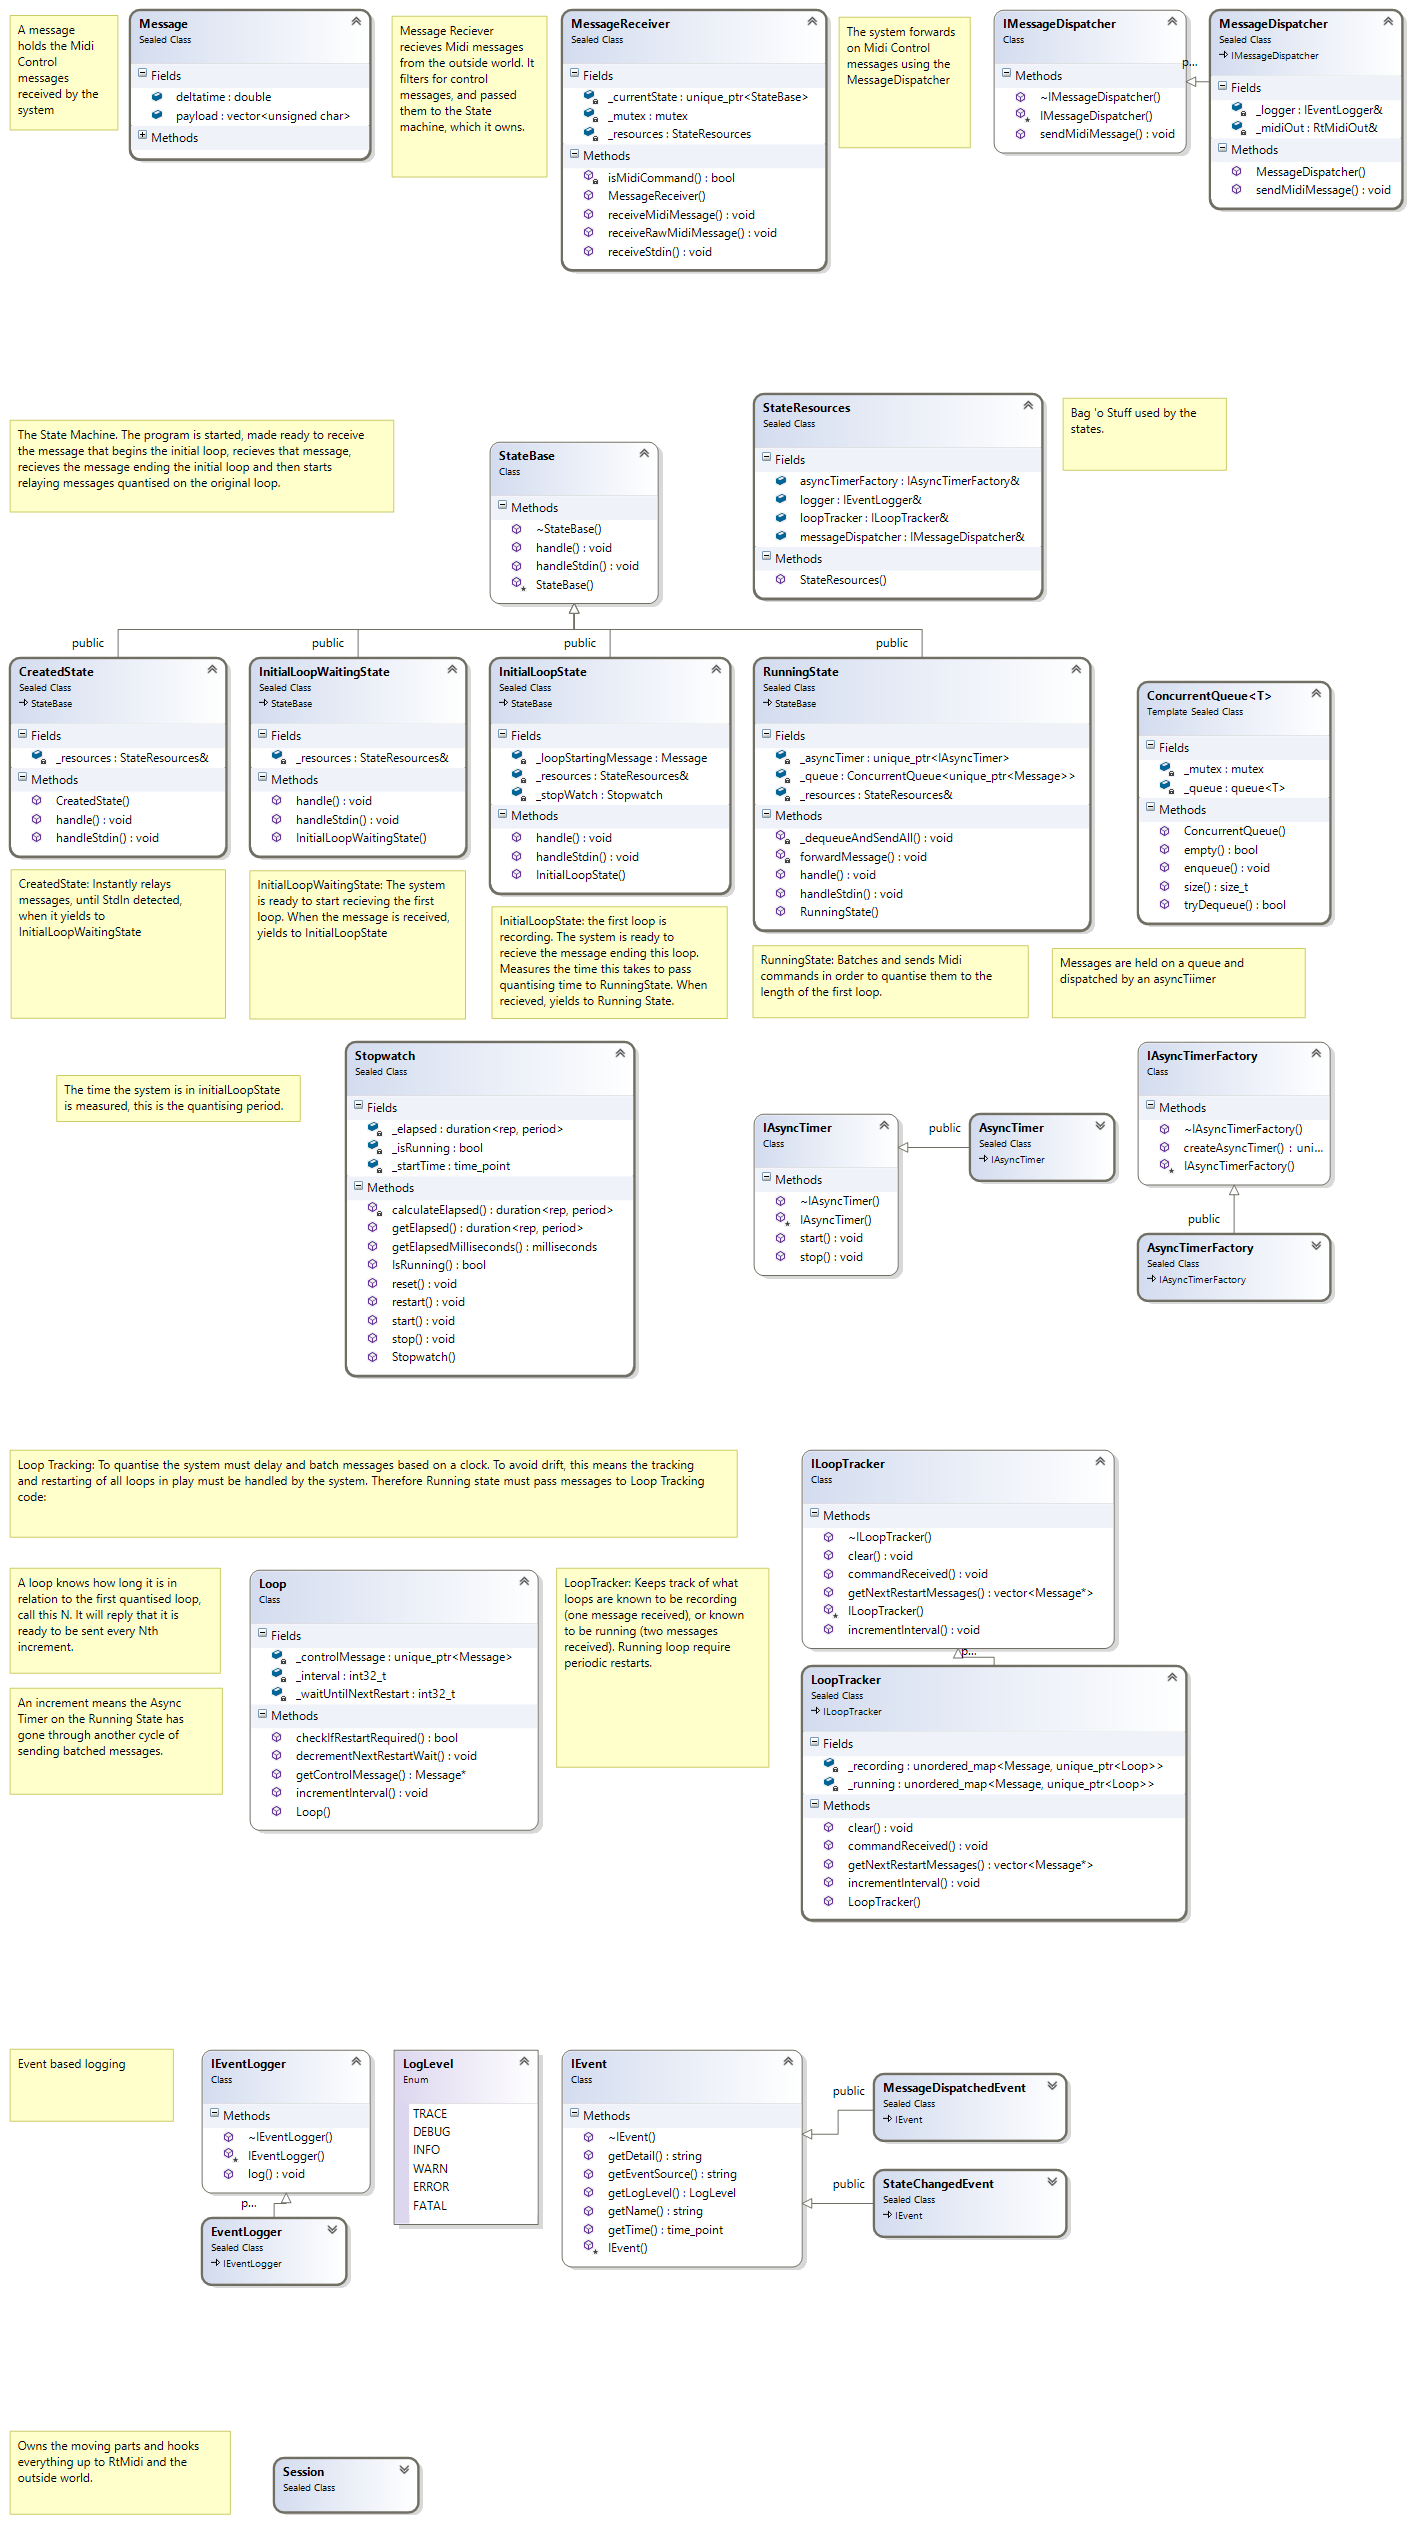
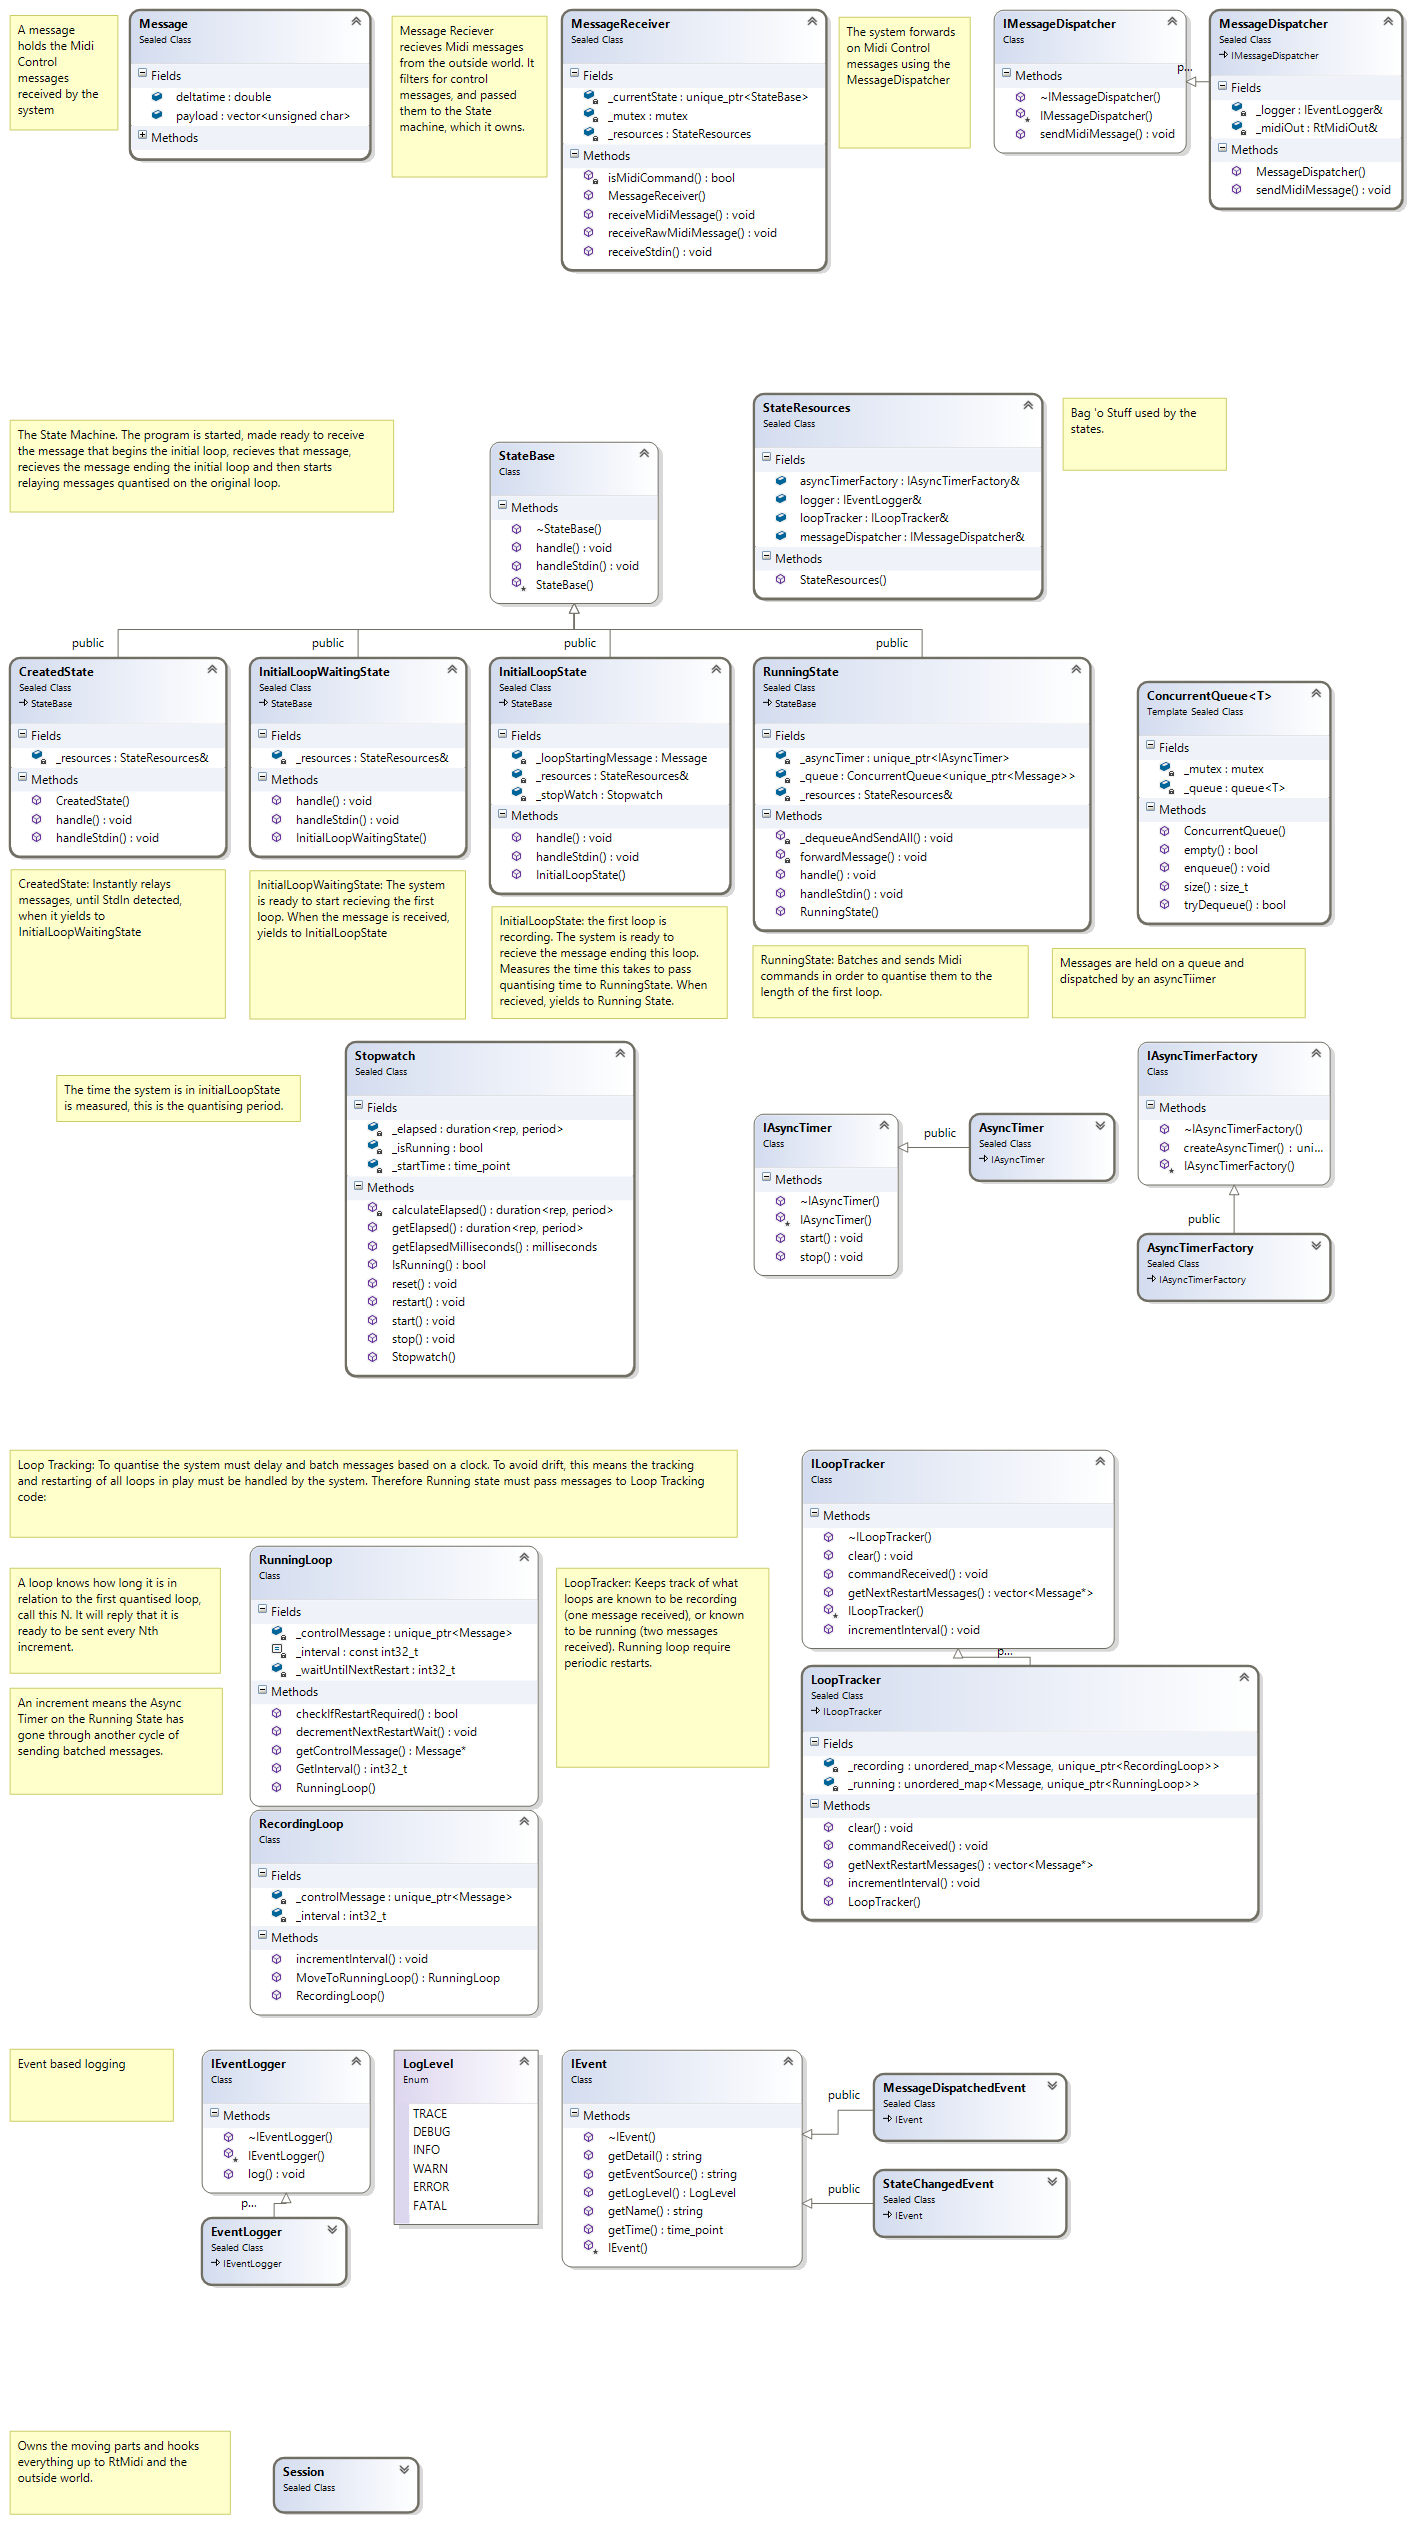
Split the provisioning (recording) of a loop and the usage (running, asking for restarts).

Changed region(s): [[0.1559, 0.5874, 0.4054, 0.8038], [0.7796, 0.6492, 0.9043, 0.7729]]

diff --git a/LiveFreetimeLooper.Tests/MessagingTests/RunningLoopTests.cpp b/LiveFreetimeLooper.Tests/MessagingTests/RunningLoopTests.cpp
@@ -1,0 +1,63 @@
+#include "..\Catch\catch.hpp"
+#include "..\..\LiveFreetimeLooper.FreetimeLooper\Messaging\Message.hpp"
+
+#include "..\..\LiveFreetimeLooper.FreetimeLooper\Messaging\RunningLoop.hpp"
+
+#include <memory>
+#include <cstdint>
+using namespace LiveFreetimeLooper;
+
+void A_RunningLoop_of_interval_N_is_restartable_every_Mth_decrement(std::int32_t loopInterval, std::int32_t decrementInterval)
+{
+    auto loop = RunningLoop(nullptr, loopInterval);
+    for (std::int32_t j = 0;j < 5;j++)
+    {
+        bool isRestartableBeforeNDecrements = false;
+        for (std::int32_t i = 0; i < decrementInterval - 1; i++)
+        {
+            loop.decrementNextRestartWait();
+            isRestartableBeforeNDecrements |= loop.checkIfRestartRequired();
+        }
+
+        loop.decrementNextRestartWait();
+        bool isRestartableOnNthDecrements = loop.checkIfRestartRequired();
+
+        REQUIRE_FALSE(isRestartableBeforeNDecrements);
+        REQUIRE(isRestartableOnNthDecrements);
+    }
+}
+
+TEST_CASE("A RunningLoop of interval 1 is restartable every 1st decrement")
+{
+    A_RunningLoop_of_interval_N_is_restartable_every_Mth_decrement(1, 1);
+}
+
+TEST_CASE("A RunningLoop of interval 2 is restartable every 2nd decrement")
+{
+    A_RunningLoop_of_interval_N_is_restartable_every_Mth_decrement(2, 2);
+}
+
+TEST_CASE("A RunningLoop of interval 5 is restartable every 5th decrement")
+{
+    A_RunningLoop_of_interval_N_is_restartable_every_Mth_decrement(5, 5);
+}
+
+TEST_CASE("A RunningLoop of interval 13 is restartable every 13th decrement")
+{
+    A_RunningLoop_of_interval_N_is_restartable_every_Mth_decrement(13, 13);
+}
+
+TEST_CASE("A RunningLoop of interval 0 is restartable every 1st decrement")
+{
+    // Is this the desired behaviour? //todo test broken this is checking the 0th decremeent
+    A_RunningLoop_of_interval_N_is_restartable_every_Mth_decrement(0, 1);
+}
+
+TEST_CASE("A RunningLoop of any interval is restartable before the first decrement")
+{
+    for (int i = 0; i < 10; i++)
+    {
+        auto loop = RunningLoop(nullptr, i);
+        REQUIRE(loop.checkIfRestartRequired());
+    }
+}

diff --git a/LiveFreetimeLooper.Tests/MessagingTests/RecordingLoopTests.cpp b/LiveFreetimeLooper.Tests/MessagingTests/RecordingLoopTests.cpp
@@ -1,0 +1,37 @@
+#include "..\Catch\catch.hpp"
+#include "..\..\LiveFreetimeLooper.FreetimeLooper\Messaging\Message.hpp"
+
+#include "..\..\LiveFreetimeLooper.FreetimeLooper\Messaging\RunningLoop.hpp"
+#include "..\..\LiveFreetimeLooper.FreetimeLooper\Messaging\RecordingLoop.hpp"
+
+#include <memory>
+#include <cstdint>
+using namespace LiveFreetimeLooper;
+
+TEST_CASE("Recording Loop yields a loop of correct interval and message")
+{
+    std::vector<unsigned char> payload = { 'q' };
+    Message message(payload);
+    RecordingLoop recordingLoop(std::make_unique<Message>(message));
+
+    for (std::int32_t i = 0; i < 27; i++)
+    {
+        recordingLoop.incrementInterval();
+    }
+
+    auto loop = recordingLoop.MoveToRunningLoop();
+
+    REQUIRE(loop.GetInterval() == 27);
+    REQUIRE(*loop.getControlMessage() == message);
+}
+
+TEST_CASE("Recording Loop yields a loop of correct interval and message when interval is zero")
+{
+    std::vector<unsigned char> payload = { 'g' };
+    Message message(payload);
+    RecordingLoop recordingLoop(std::make_unique<Message>(message));
+    auto loop = recordingLoop.MoveToRunningLoop();
+
+    REQUIRE(loop.GetInterval() == 0);
+    REQUIRE(*loop.getControlMessage() == message);
+}

diff --git a/LiveFreetimeLooper.FreetimeLooper/Messaging/RunningLoop.cpp b/LiveFreetimeLooper.FreetimeLooper/Messaging/RunningLoop.cpp
@@ -1,26 +1,21 @@
-#include "Loop.hpp"
+#include "RunningLoop.hpp"
 
 namespace LiveFreetimeLooper
 {
-    Loop::Loop(std::unique_ptr<Message> controlMessage) :
-        _interval(0),
+    RunningLoop::RunningLoop(std::unique_ptr<Message> controlMessage, std::int32_t interval) :
+        _interval(interval),
         _waitUntilNextRestart(0),
         _controlMessage(std::move(controlMessage))
     {
 
     }
 
-    void Loop::incrementInterval()
-    {
-        ++_interval;
-    }
-
-    bool Loop::checkIfRestartRequired()
+    bool RunningLoop::checkIfRestartRequired()
     {
         return _waitUntilNextRestart < 1;
     }
 
-    void Loop::decrementNextRestartWait()
+    void RunningLoop::decrementNextRestartWait()
     {
         if (_waitUntilNextRestart < 1)
         {
@@ -31,8 +26,13 @@ namespace LiveFreetimeLooper
         --_waitUntilNextRestart;
     }
 
-    Message* Loop::getControlMessage()
+    Message* RunningLoop::getControlMessage()
     {
         return _controlMessage.get();
+    }
+
+    std::int32_t RunningLoop::GetInterval()
+    {
+        return _interval;
     }
 }

diff --git a/LiveFreetimeLooper.FreetimeLooper/Messaging/RunningLoop.hpp b/LiveFreetimeLooper.FreetimeLooper/Messaging/RunningLoop.hpp
@@ -8,21 +8,21 @@
 namespace LiveFreetimeLooper
 {
 
-    class Loop
+    class RunningLoop
     {
     private:    
         // Length of loop relative to initial loop interval
-        std::int32_t _interval; 
+        const std::int32_t _interval; 
         // Counts down when checkIfRestartRequired and decrementNextRestartWait called
         // st checkIfRestartRequired returns true every _interval times
         std::int32_t _waitUntilNextRestart;
         std::unique_ptr<Message> _controlMessage;
     public:
-        Loop(std::unique_ptr<Message> controlMessage);
-        void incrementInterval();
+        RunningLoop(std::unique_ptr<Message> controlMessage, std::int32_t interval);
         bool checkIfRestartRequired();
         void decrementNextRestartWait();
         Message* getControlMessage();
+        std::int32_t GetInterval();
     };
 
 }

diff --git a/LiveFreetimeLooper.FreetimeLooper/Messaging/LoopTracker.cpp b/LiveFreetimeLooper.FreetimeLooper/Messaging/LoopTracker.cpp
@@ -24,7 +24,7 @@ namespace LiveFreetimeLooper
         // If recording, move to running
         if (recordingLoopEntry != _recording.end())
         {
-            _running.emplace(recordingLoopEntry->first, std::move(recordingLoopEntry->second));
+            _running.emplace(recordingLoopEntry->first, std::make_unique<RunningLoop>(recordingLoopEntry->second->MoveToRunningLoop()));
             _recording.erase(recordingLoopEntry);
             return;
         }
@@ -33,7 +33,7 @@ namespace LiveFreetimeLooper
         // If unknown, move to recording
         if (runningMessageEntry == _running.end())
         {
-            _recording.emplace(messageKey, std::make_unique<Loop>(std::move(message)));
+            _recording.emplace(messageKey, std::make_unique<RecordingLoop>(std::move(message)));
         }
     }
 

diff --git a/LiveFreetimeLooper.FreetimeLooper/Messaging/LoopTracker.hpp b/LiveFreetimeLooper.FreetimeLooper/Messaging/LoopTracker.hpp
@@ -6,15 +6,16 @@
 
 #include "ILoopTracker.hpp"
 #include "Message.hpp"
-#include "Loop.hpp"
+#include "RunningLoop.hpp"
+#include "RecordingLoop.hpp"
 
 namespace LiveFreetimeLooper
 {
     class LoopTracker final : public ILoopTracker
     {
     private:
-        std::unordered_map<Message, std::unique_ptr<Loop>> _recording;
-        std::unordered_map<Message, std::unique_ptr<Loop>> _running;
+        std::unordered_map<Message, std::unique_ptr<RecordingLoop>> _recording;
+        std::unordered_map<Message, std::unique_ptr<RunningLoop>> _running;
     public:
         LoopTracker();
 

diff --git a/LiveFreetimeLooper.FreetimeLooper/Messaging/RecordingLoop.hpp b/LiveFreetimeLooper.FreetimeLooper/Messaging/RecordingLoop.hpp
@@ -1,0 +1,24 @@
+#pragma once
+
+#include <memory>
+#include <cstdint>
+
+#include "Message.hpp"
+
+namespace LiveFreetimeLooper
+{
+    class RunningLoop;
+
+    class RecordingLoop
+    {
+    private:    
+        // Length of loop relative to initial loop interval
+        std::int32_t _interval; 
+        std::unique_ptr<Message> _controlMessage;
+    public:
+        RecordingLoop(std::unique_ptr<Message> controlMessage);
+        void incrementInterval();
+        RunningLoop MoveToRunningLoop();
+    };
+
+}

diff --git a/LiveFreetimeLooper.FreetimeLooper/Messaging/RecordingLoop.cpp b/LiveFreetimeLooper.FreetimeLooper/Messaging/RecordingLoop.cpp
@@ -1,0 +1,22 @@
+#include "RecordingLoop.hpp"
+#include "RunningLoop.hpp"
+
+namespace LiveFreetimeLooper
+{
+    RecordingLoop::RecordingLoop(std::unique_ptr<Message> controlMessage) :
+        _interval(0),
+        _controlMessage(std::move(controlMessage))
+    {
+
+    }
+
+    void RecordingLoop::incrementInterval()
+    {
+        ++_interval;
+    }
+
+    RunningLoop RecordingLoop::MoveToRunningLoop()
+    {
+        return RunningLoop(std::move(_controlMessage), _interval);
+    }
+}

diff --git a/LiveFreetimeLooper.Tests/Mocks/MockLoopTracker.hpp b/LiveFreetimeLooper.Tests/Mocks/MockLoopTracker.hpp
@@ -6,7 +6,7 @@
 
 #include "..\..\LiveFreetimeLooper.FreetimeLooper\Messaging\ILoopTracker.hpp"
 #include "..\..\LiveFreetimeLooper.FreetimeLooper\Messaging\Message.hpp"
-#include "..\..\LiveFreetimeLooper.FreetimeLooper\Messaging\Loop.hpp"
+#include "..\..\LiveFreetimeLooper.FreetimeLooper\Messaging\RunningLoop.hpp"
 
 
 class MockLoopTracker final : public LiveFreetimeLooper::ILoopTracker
